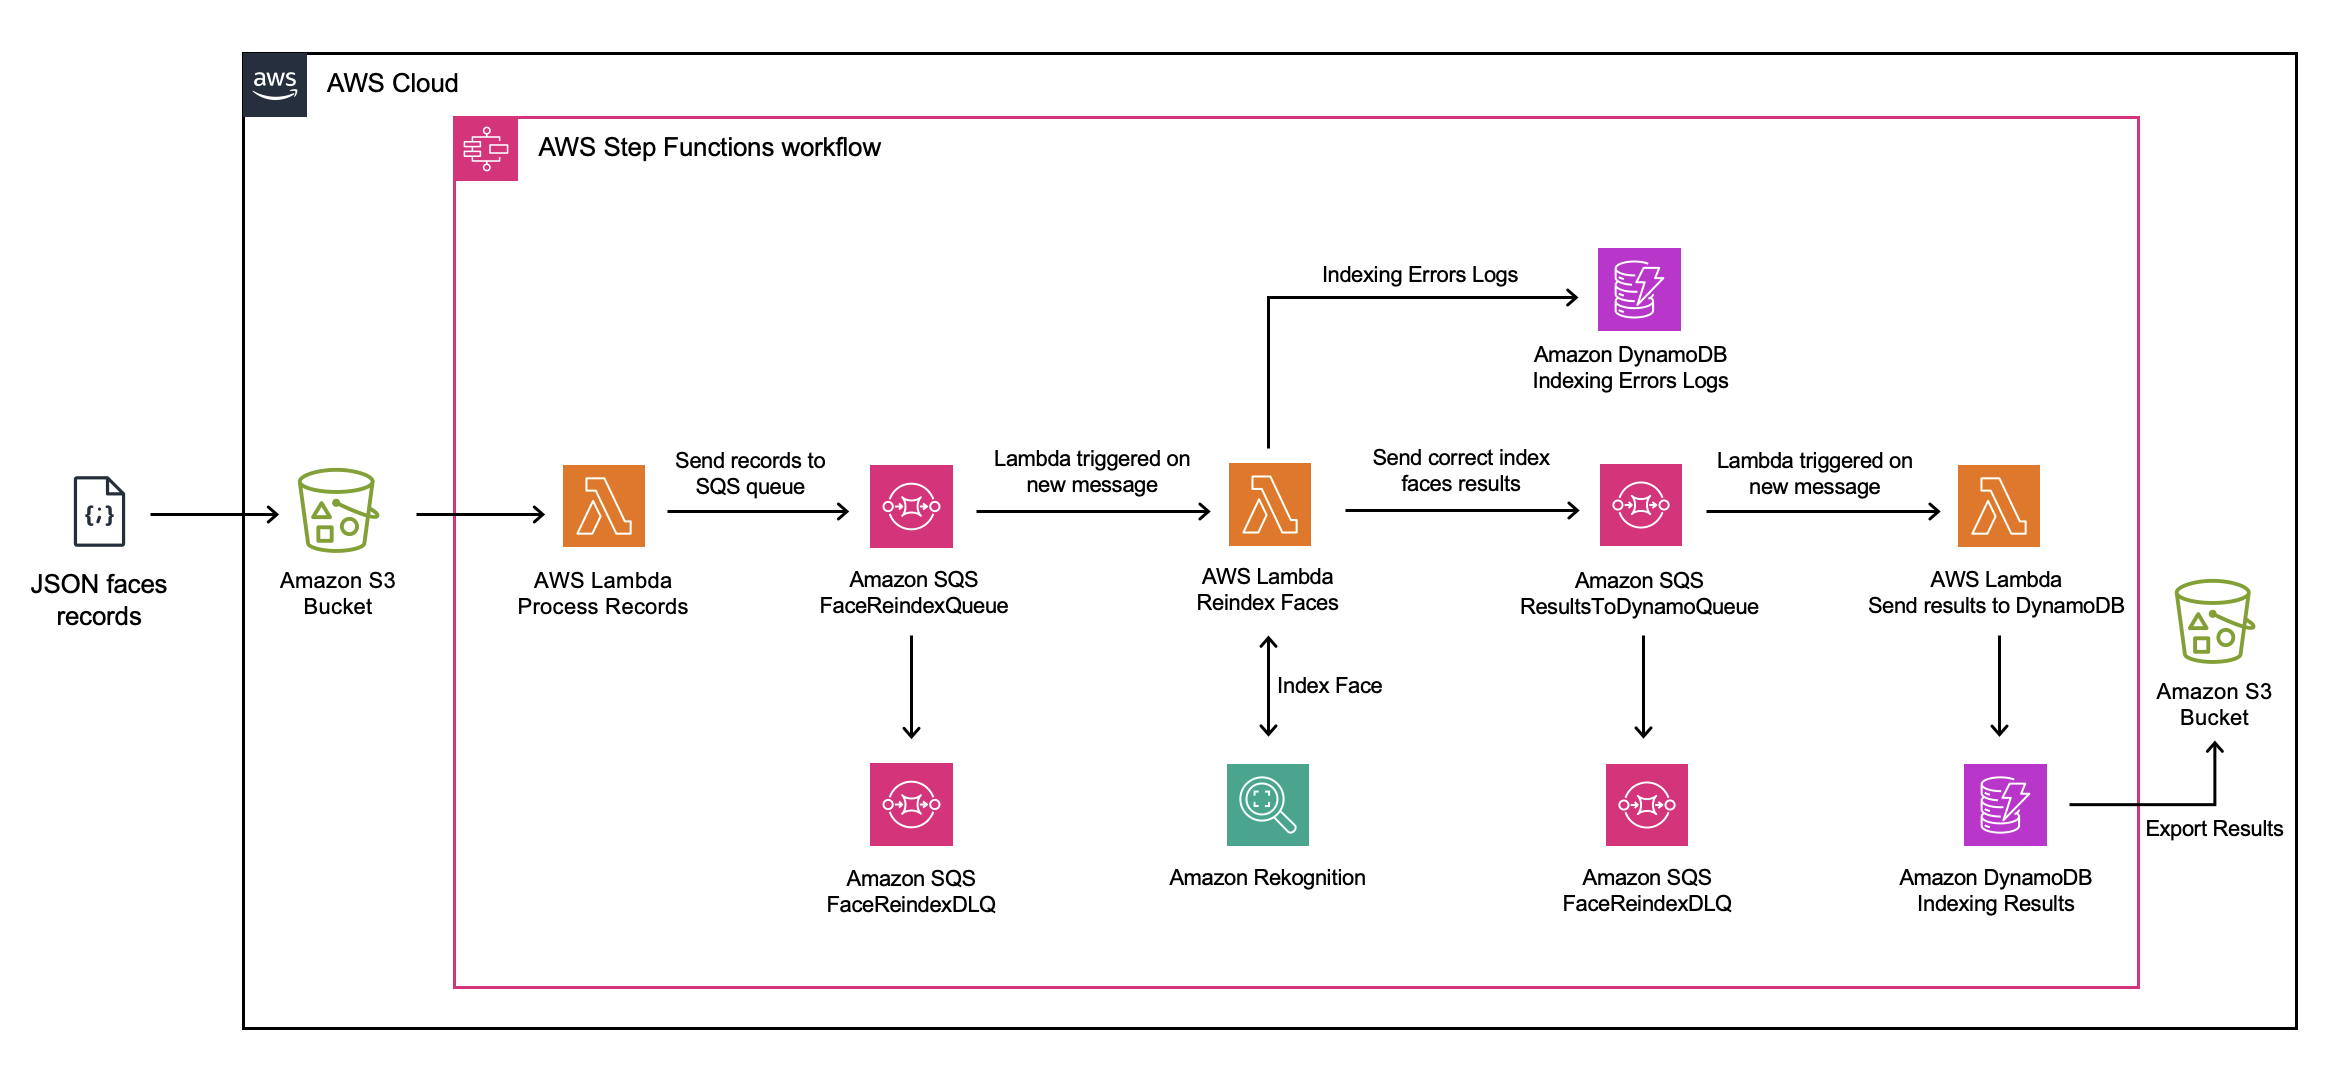
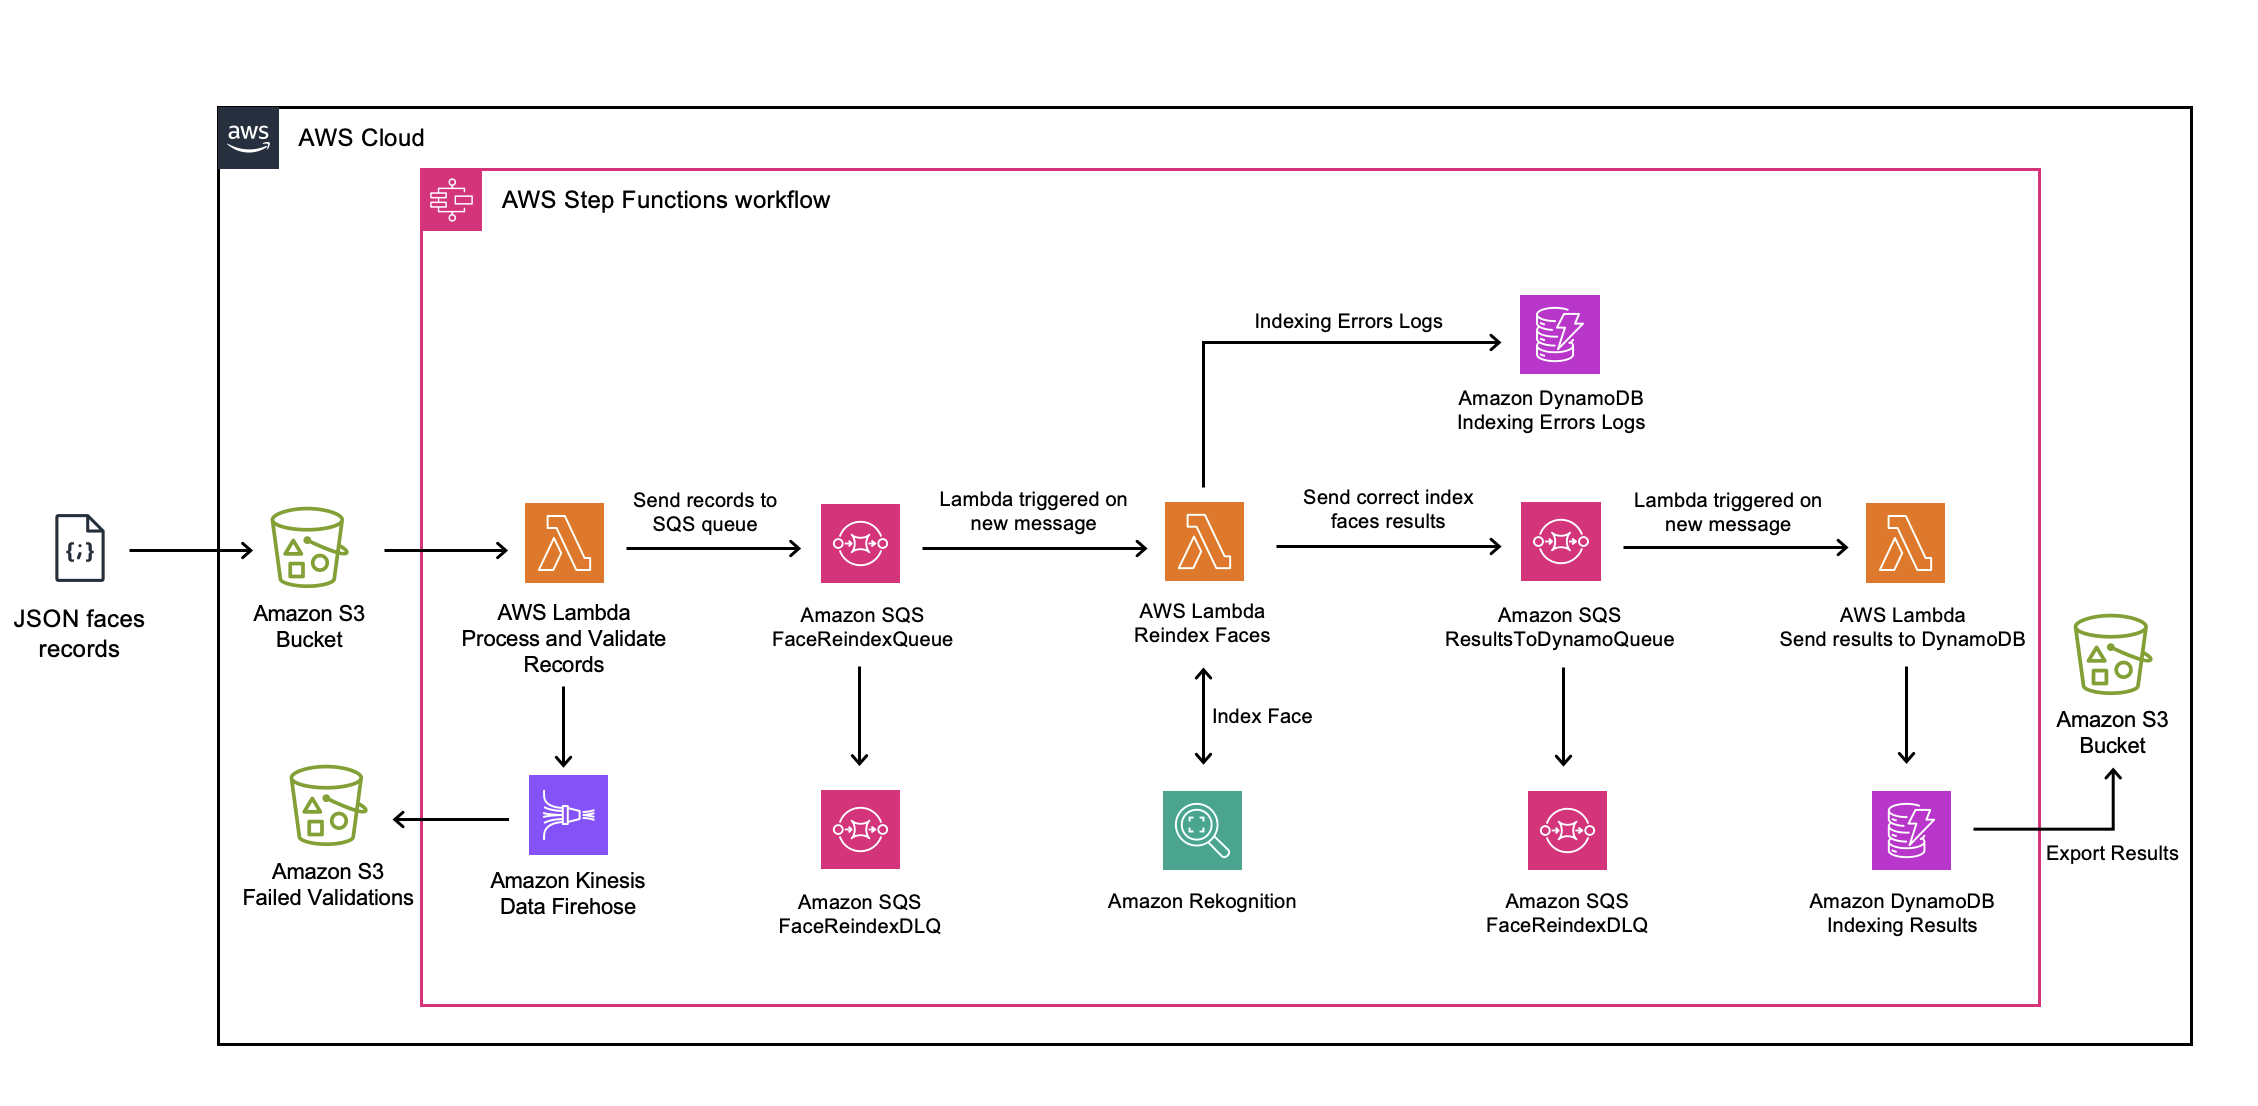
V2 update

diff --git a/solution-assets/lambda_functions/lambda_processing.py b/solution-assets/lambda_functions/lambda_processing.py
@@ -1,26 +1,69 @@
-import boto3, json, os
-sqsClient = boto3.client('sqs')
+import boto3
+import json
+import os
+import botocore
+
+sqs_client = boto3.client('sqs')
+s3_client = boto3.client('s3')
+firehose_client = boto3.client('firehose')
+
+def validate_s3(bucket, key):
+    try:
+        response = s3_client.head_object(Bucket=bucket, Key=key)
+        if response['ContentLength'] == 0:
+            return False, "S3 validation failed: Object has zero bytes"
+        return True, None
+    except botocore.exceptions.ClientError as e:
+        if e.response['Error']['Code'] == '404':
+            return False, "S3 validation failed: Object does not exist"
+        return False, f"S3 validation failed: {str(e)}"
+
+def validate_schema(item):
+    expected_properties = {"Bucket", "Key", "ExternalImageId", "CollectionId"}
+    missing_props = expected_properties - set(item.keys())
+    if missing_props:
+        return False, item, f"Missing required properties: {', '.join(missing_props)}"
+
+    for prop, value in item.items():
+        if prop in expected_properties and not isinstance(value, str):
+            return False, item, f"Invalid type for property '{prop}': expected 'str', got '{type(value).__name__}'"
+
+    return True, item, None
+
+def process_items(items):
+    success_items = []
+    failed_items = []
+    for item in items:
+        schema_validation, validated_item, schema_reason = validate_schema(item)
+        if schema_validation:
+            s3_validation, s3_reason = validate_s3(validated_item["Bucket"], validated_item["Key"])
+            if s3_validation:
+                success_items.append(validated_item)
+            else:
+                failed_items.append({"record": validated_item, "reason": s3_reason})
+        else:
+            failed_items.append({"record": item, "reason": schema_reason})
+    return success_items, failed_items
 
 def lambda_handler(event, context):
-    print(event)
     if "Items" in event:
-        for item in event["Items"]:
-            print(item)
-            sqsURL = os.environ['reindexsqsurl']
-            response = sqsClient.send_message(
-                QueueUrl=sqsURL,
-                MessageBody=json.dumps(item),
-                DelaySeconds=1
-            )
+        items = event["Items"]
     else:
-        sqsURL = os.environ['reindexsqsurl']
-        response = sqsClient.send_message(
-            QueueUrl=sqsURL,
-            MessageBody=json.dumps(event),
-            DelaySeconds=1
-        )
-        
-    return {
-        'statusCode': 200,
-        'body': json.dumps('Hello from Lambda!')
-    }
+        items = [event]
+
+    success_items, failed_items = process_items(items)
+
+    sqsURL = os.environ['reindexsqsurl']
+    for item in success_items:
+        sqs_client.send_message(QueueUrl=sqsURL, MessageBody=json.dumps(item), DelaySeconds=1)
+        print(f"Sent valid record to SQS: {json.dumps(item)}")
+
+    if failed_items:
+        print("failed items: {}".format(failed_items))
+        firehose_delivery_stream = os.environ['kinesis_stream']
+        for failed_item in failed_items:
+            record = {'Data': json.dumps(failed_item) + '\n'}
+            firehose_client.put_record(DeliveryStreamName=firehose_delivery_stream, Record=record)
+            print(f"Sent failed item to Kinesis Firehose: {json.dumps(failed_item)}")
+
+    return {'statusCode': 200, 'body': json.dumps('Hello from Lambda!')}

diff --git a/solution-assets/lambda_functions/lambda_updateconcurrency.py b/solution-assets/lambda_functions/lambda_updateconcurrency.py
@@ -1,0 +1,53 @@
+import os
+import boto3
+import json
+
+# Initialize AWS clients
+lambda_client = boto3.client('lambda')
+
+def lambda_handler(event, context):
+    # Get the function name and the limit from environment variables
+    function_name = os.environ['FUNCTION_NAME']
+    max_concurrency_limit = int(os.environ['MAX_CONCURRENCY_LIMIT'])
+
+    # Get the event source mappings for the function
+    event_source_mappings = lambda_client.list_event_source_mappings(FunctionName=function_name)['EventSourceMappings']
+
+    # Initialize the response
+    response = {
+        'updated_mappings': [],
+        'skipped_mappings': []
+    }
+
+    # Iterate over each event source mapping
+    for mapping in event_source_mappings:
+        # Check if ScalingConfig.MaximumConcurrency is below the limit
+        if mapping.get('ScalingConfig', {}).get('MaximumConcurrency') is None or mapping['ScalingConfig']['MaximumConcurrency'] < max_concurrency_limit:
+            # Calculate the new MaximumConcurrency value
+            new_max_concurrency = min(max_concurrency_limit, mapping['ScalingConfig'].get('MaximumConcurrency', 0) + 50)
+
+            # Update the event source mapping
+            lambda_client.update_event_source_mapping(
+                UUID=mapping['UUID'],
+                FunctionName=function_name,
+                ScalingConfig={
+                    'MaximumConcurrency': new_max_concurrency
+                }
+            )
+
+            # Add the updated mapping to the response
+            response['updated_mappings'].append({
+                'UUID': mapping['UUID'],
+                'new_max_concurrency': new_max_concurrency
+            })
+        else:
+            # Add the skipped mapping to the response
+            response['skipped_mappings'].append({
+                'UUID': mapping['UUID'],
+                'current_max_concurrency': mapping['ScalingConfig']['MaximumConcurrency']
+            })
+
+    return {
+        'statusCode': 200,
+        'body': json.dumps(response)
+    }

diff --git a/solution-assets/lambda_functions/lambda_reindex.py b/solution-assets/lambda_functions/lambda_reindex.py
@@ -1,4 +1,4 @@
-import json, boto3, os
+import json, boto3, os, time
 
 rekClient = boto3.client('rekognition')
 sqsClient = boto3.client('sqs')
@@ -306,7 +306,7 @@ def lambda_handler(event, context):
                         sendLogstoDynamo(payload, "Not able to match indexed faces to any of the original input.")
 
                 sendResultstoDynamo(updatedRecords)
-
+    time.sleep(0.6)
     return {
         'statusCode': 200,
         'body': json.dumps('Index Correct')
